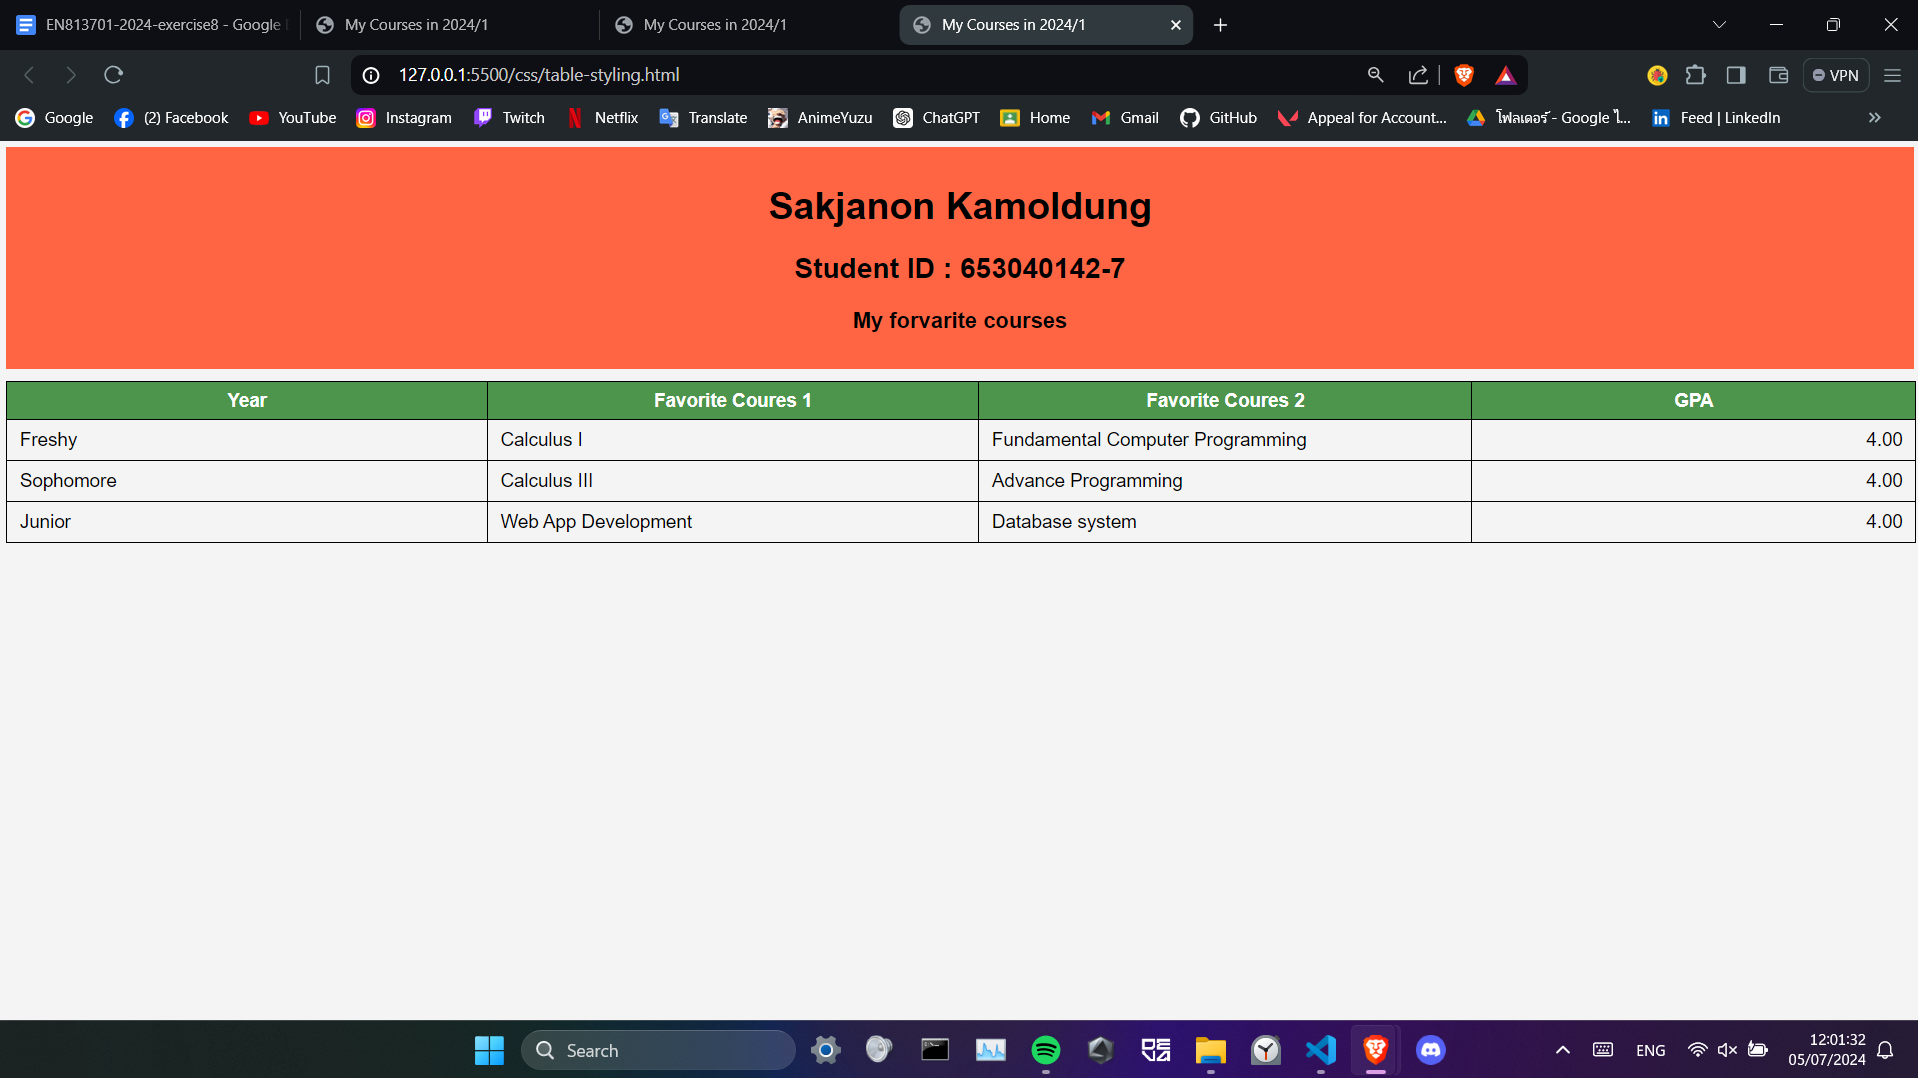
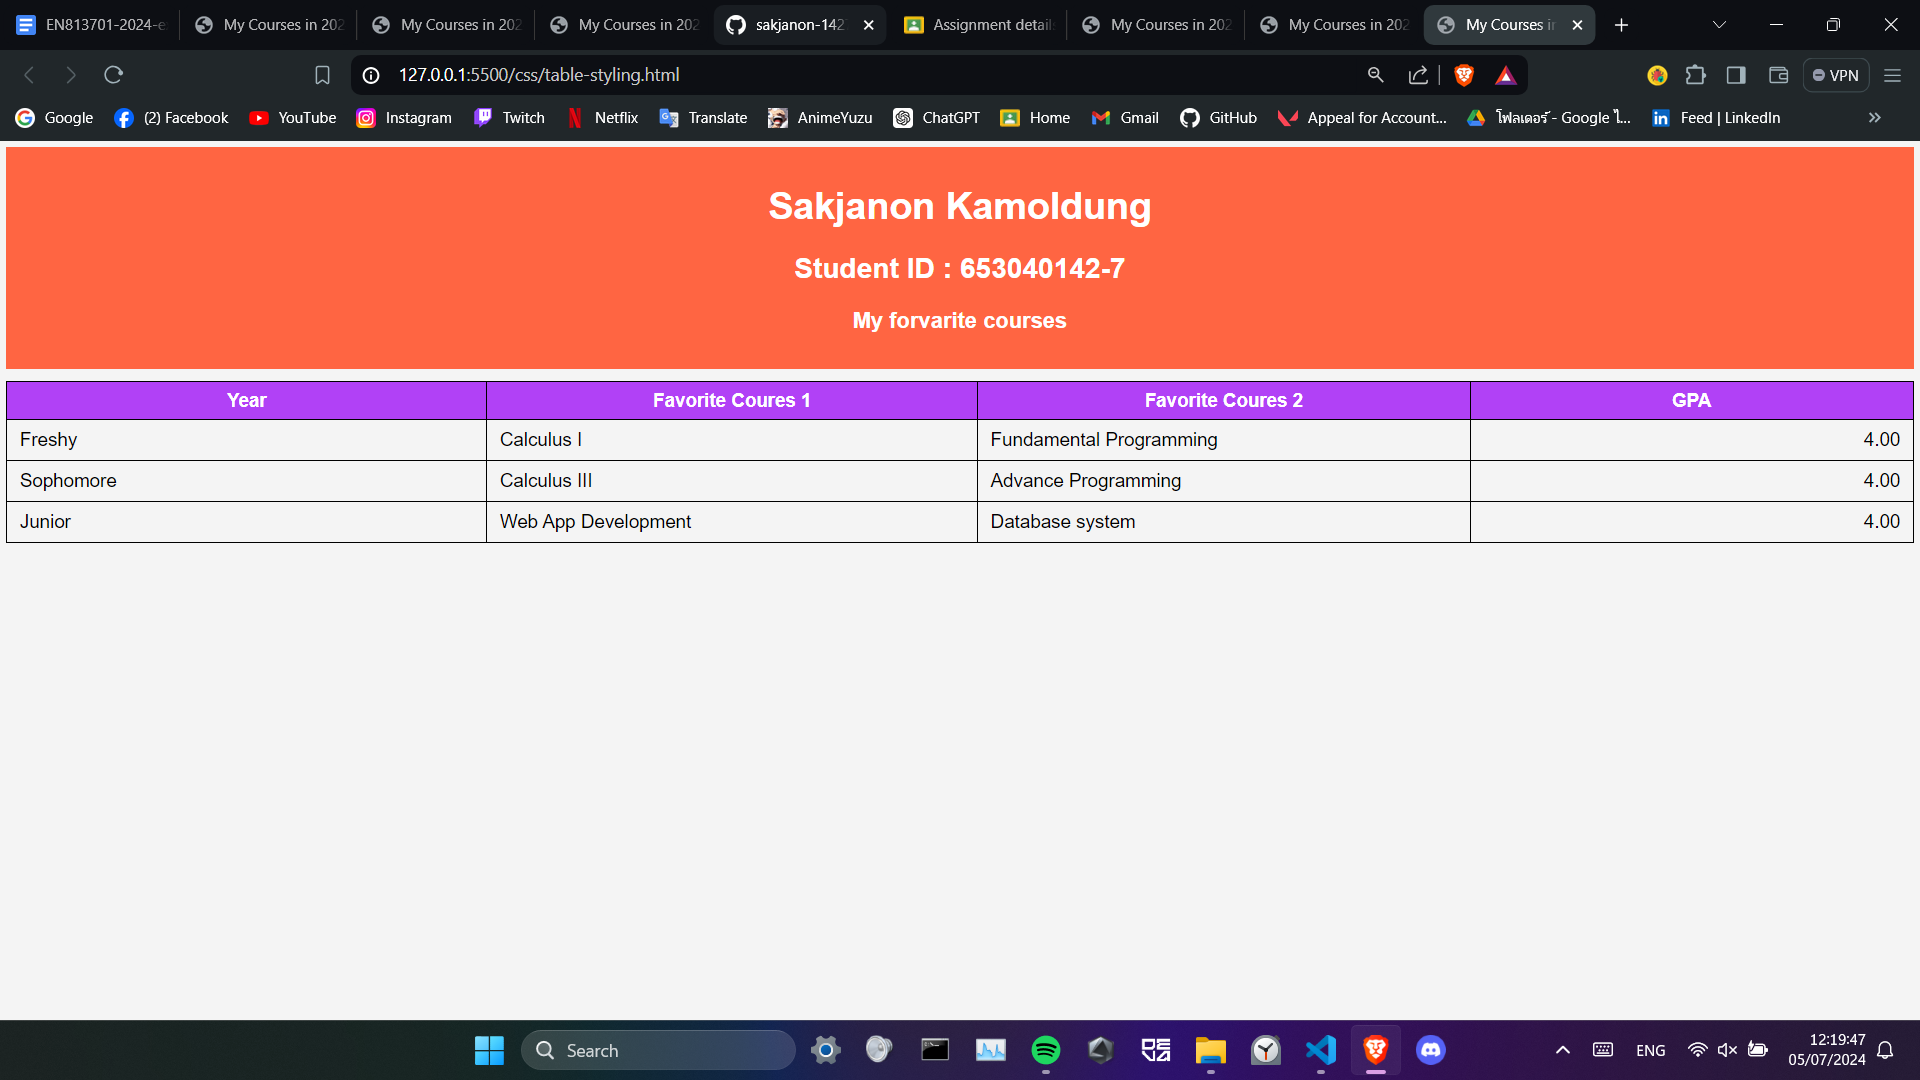
asdasdasdasd

diff --git a/css/table-styling.html b/css/table-styling.html
@@ -9,12 +9,14 @@
 </head>
 <body>
     <div class="container">
-        <header>
-            <h1 id="headhead">Sakjanon Kamoldung</h1>
+            <div class="top">
+                <h1 id="headhead">Sakjanon Kamoldung</h1>
             <h2>Student ID : 653040142-7</h2>
             <h3>My forvarite courses</h3>
-        </header>
-        <main>
+            </div>
+            
+        
+        
             <table>
                 <tr>
                     <th>Year</th>
@@ -26,7 +28,7 @@
                     
                     <td>Freshy</td>
                     <td>Calculus I</td>
-                    <td>Fundamental Computer Programming</td>
+                    <td>Fundamental Programming</td>
                     <td id="grade">4.00</td>
                 </tr>
                 <tr>
@@ -43,8 +45,11 @@
                 </tr>
             </table>
         
+            <div class="course-card">
+             
+            </div>
+            
         
-        </main>
     </body>
 
 </div>

diff --git a/css/table-style.css b/css/table-style.css
@@ -4,16 +4,19 @@ body {
     background-color: #f4f4f4;
 }
 
-header {
+.top {
     background-color: #ff6542;
-    color: black;
+    color: white;
     padding: 10px 0px;
     /* width: 20; */
     text-align: center;
     margin-bottom: 10px;
 }
-
-table,tr,td{
+table{
+    border-collapse: collapse;
+    border: 1px solid black ;
+}
+tr,td{
     border-collapse: collapse;
     border: 1px solid black ;
     /* margin: 0px; */
@@ -33,7 +36,7 @@ table,tr,td{
 th{
     border-collapse: collapse;
     border: 1px solid black;
-    background-color: rgb(77, 148, 77);
+    background-color: rgb(177, 65, 246);
     color: white;
     text-align: center;
 }
